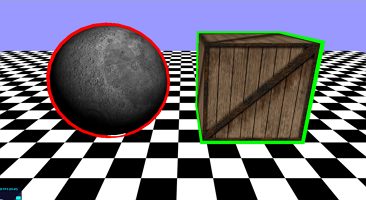
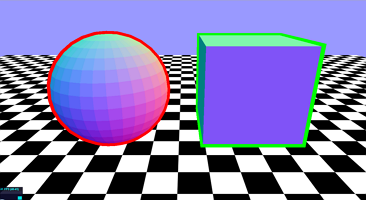
Reorganized index page.

diff --git a/Three.js/index.html b/Three.js/index.html
@@ -12,6 +12,7 @@ The goal of this collection is to provide a set of basic and instructive example
 <hr>
 Hosted at <a class="toc" href="https://github.com/stemkoski/stemkoski.github.com">GitHub</a>. Total examples: 76. Last updated: 29 June 2013. Compatible with Three.js version 56.
 <hr>
+<hr color="black"> <center><b><u>Basic Examples</u></b></center>
 &bull; <a class="toc" href="#hello-world">Hello World</a>
 &bull; <a class="toc" href="#template">Template</a>
 &bull; <a class="toc" href="#infobox">Info Box</a>
@@ -25,27 +26,36 @@ Hosted at <a class="toc" href="https://github.com/stemkoski/stemkoski.github.com
 &bull; <a class="toc" href="#shapes">Shapes</a>
 &bull; <a class="toc" href="#extrusion">Extrusion</a>
 &bull; <a class="toc" href="#text3D">Text3D</a>
+
+<hr color="black"> <center><b><u>Texture Examples</u></b></center>
 &bull; <a class="toc" href="#textures">Textures</a>
-&bull; <a class="toc" href="#sprites">Sprites</a>
 &bull; <a class="toc" href="#texture-repeat">Texture - Repeat</a>
 &bull; <a class="toc" href="#texture-text3D">Texture - Text3D </a>
-&bull; <a class="toc" href="#subdivision-cube">Subdivision Modifier - Cube</a>
-&bull; <a class="toc" href="#skybox">SkyBox</a>
 &bull; <a class="toc" href="#translucence">Translucence</a>
 &bull; <a class="toc" href="#shadow">Shadow</a>
+&bull; <a class="toc" href="#subdivision-cube">Subdivision Modifier - Cube</a>
+&bull; <a class="toc" href="#skybox">SkyBox</a>
 &bull; <a class="toc" href="#reflection">Reflection</a>
 &bull; <a class="toc" href="#refraction">Refraction</a>
 &bull; <a class="toc" href="#bubble">Bubble</a>
 &bull; <a class="toc" href="#texture-from-canvas">Texture from Canvas</a>
-&bull; <a class="toc" href="#sprite-text-labels">Sprite Text Labels</a>
 &bull; <a class="toc" href="#texture-animation">Texture Animation</a>
+
+<hr color="black"> <center><b><u>Sprite Examples</u></b></center>
+&bull; <a class="toc" href="#sprites">Sprites</a>
+&bull; <a class="toc" href="#sprite-text-labels">Sprite Text Labels</a>
+&bull; <a class="toc" href="#labeled-geometry">Labeled Geometry</a>
+
+<hr color="black"> <center><b><u>Camera/Renderer Examples</u></b></center>
 &bull; <a class="toc" href="#mesh-movement">Mesh Movement</a>
 &bull; <a class="toc" href="#chase-camera">Chase Camera</a>
 &bull; <a class="toc" href="#multiple-cameras">Multiple Cameras</a>
 &bull; <a class="toc" href="#camera-texture">Camera to Texture</a>
 &bull; <a class="toc" href="#viewports-dual">Viewports - Dual</a>
 &bull; <a class="toc" href="#viewports-quad">Viewports - Quad</a>
-<hr color="black"> SHADERS:
+&bull; <a class="toc" href="#css3d">Embedded HTML</a>
+
+<hr color="black"> <center><b><u>Shader Examples</u></b></center>
 &bull; <a class="toc" href="#shader-simple">Shader - Simple</a>
 &bull; <a class="toc" href="#shader-explorer">Shader - Explorer</a>
 &bull; <a class="toc" href="#selective-glow">Selective Glow Effect using Shaders</a>
@@ -54,7 +64,8 @@ Hosted at <a class="toc" href="https://github.com/stemkoski/stemkoski.github.com
 &bull; <a class="toc" href="#shader-animate">Shader - Animated Materials</a>
 &bull; <a class="toc" href="#shader-fireball">Shader - Animated Fireball</a>
 &bull; <a class="toc" href="#atmosphere">Atmosphere Effect using Shaders</a>
-<hr color="black"> PARTICLE SYSTEMS:
+
+<hr color="black"> <center><b><u>Particle System Examples</u></b></center>
 &bull; <a class="toc" href="#particles">Particles</a>
 &bull; <a class="toc" href="#particlesystem-static">Particle System - Static</a>
 &bull; <a class="toc" href="#particlesystem-shader">Particle System - Shader</a>
@@ -62,34 +73,45 @@ Hosted at <a class="toc" href="https://github.com/stemkoski/stemkoski.github.com
 &bull; <a class="toc" href="#particlesystem-dynamic">Particle System - Dynamic</a>
 &bull; <a class="toc" href="#particlesystem-pathmovement">Particle System - Path Movement</a>
 &bull; <a class="toc" href="#particle-engine">Particle Engine</a>
-<hr color="black"> VIDEO AND WEBCAM:
+
+<hr color="black"> <center><b><u>Video/Webcam Examples</u></b></center>
 &bull; <a class="toc" href="#video-texture">Video to Texture</a>
 &bull; <a class="toc" href="#webcam-test">Webcam Test</a>
 &bull; <a class="toc" href="#webcam-texture">Webcam to Texture</a>
 &bull; <a class="toc" href="#motion-detection">Motion Detection</a>
 &bull; <a class="toc" href="#motion-detection-texture">Motion Detection and Scene</a>
 &bull; <a class="toc" href="#many-cameras">Many Cameras</a>
-&bull; <a class="toc" href="#css3d">Embedded HTML</a>
-<hr color="black"> GAMEPAD:
-&bull; <a class="toc" href="#gamepad-test">Gamepad Test</a>
-&bull; <a class="toc" href="#mesh-movement-gamepad">Mesh Movement - Gamepad</a>
 
+<hr color="black"> <center><b><u>GUI Examples</u></b></center>
 &bull; <a class="toc" href="#gui">GUI</a>
 &bull; <a class="toc" href="#gui-controller">GUI Controller</a>
+
+<hr color="black"> <center><b><u>Mouse Examples</u></b></center>
 &bull; <a class="toc" href="#mouse-sprite">Mouse Sprite</a>
 &bull; <a class="toc" href="#mouse-hovering">Mouse Hovering</a>
 &bull; <a class="toc" href="#mouse-tooltip">Mouse Tooltip</a>
-<hr color="black"> MODELS:
+
+<hr color="black"> <center><b><u>Gamepad Examples</u></b></center>
+&bull; <a class="toc" href="#gamepad-test">Gamepad Test</a>
+&bull; <a class="toc" href="#mesh-movement-gamepad">Mesh Movement - Gamepad</a>
+
+<hr color="black"> <center><b><u>Model Examples</u></b></center>
 &bull; <a class="toc" href="#model">Model</a>
 &bull; <a class="toc" href="#model-animation">Animated Model</a>
 &bull; <a class="toc" href="#model-animation-control">Animated Model with Controls</a>
+
+<hr color="black"> <center><b><u>Collision Detection Examples</u></b></center>
 &bull; <a class="toc" href="#collision-detection">Collision Detection</a>
-<hr color="black"> MARCHING CUBES:
+
+<hr color="black"> <center><b><u>Marching Cubes Examples</u></b></center>
 &bull; <a class="toc" href="#marching-cubes">Marching Cubes Algorithm</a>
 &bull; <a class="toc" href="#metaballs">Metaballs</a>
 &bull; <a class="toc" href="#metabubbles">Metabubbles</a>
+
+<hr color="black"> <center><b><u>Mathematics Examples</u></b></center>
 &bull; <a class="toc" href="#csg">Constructive Solid Geometry</a>
-<hr color="black"> MATHEMATICS:
+&bull; <a class="toc" href="#sphere-project">Sphere Project</a>
+&bull; <a class="toc" href="#topology-data">Topology Data</a>
 &bull; <a class="toc" href="#graphulus-function">Function Grapher</a>
 &bull; <a class="toc" href="#graphulus-surface">Parametric Surface Grapher</a>
 &bull; <a class="toc" href="#graphulus-curve">Parametric Curve Grapher</a>
@@ -211,14 +233,6 @@ make a 2D shape, and create an extrusion (a 3D shape whose cross-sections are th
 <p class ="superText"> Demonstrates surfaces with textures (image-based materials), including shading and coloring effects. </p>
 </div>
 
-<div class="fancy">
-<a name="sprites"></a>
-<a href="Sprites.html" target="_blank">
-<img src="html-images/Sprites.png" class="superImage" />
-<br/>Sprites</a>
-<p class ="superText"> Sprites are images (not attached to geometries/surfaces) displayed in a scene, always orthogonal to the camera.
-They can either appear in the 3D scene (useful as part of a particle effect) or rendered using screen coordinates (useful as part of a graphical user interface (GUI) or a heads-up display (HUD)). </p>
-</div>
 
 <div class="fancy">
 <a name="texture-repeat"></a>
@@ -237,22 +251,6 @@ They can either appear in the 3D scene (useful as part of a particle effect) or 
 </div>
 
 <div class="fancy">
-<a name="subdivision-cube"></a>
-<a href="Subdivision-Cube.html" target="_blank">
-<img src="html-images/Subdivision-Cube.png" class="superImage" />
-<br/>Subdivision Modifier - Cube</a>
-<p class ="superText"> Demostrates a function that interpolates additional points to a geometry, creating a "smoothing" effect. This example applies the modifier to a variety of cube geometries, resulting in spherical and beveled cubes. </p>
-</div>
-
-<div class="fancy">
-<a name="skybox"></a>
-<a href="Skybox.html" target="_blank">
-<img src="html-images/Skybox.png" class="superImage" />
-<br/>SkyBox</a>
-<p class ="superText"> Using textures to create a "SkyBox": backgrounds images projected onto a cube surrounding the rendering region, which creates the illusion of distant 3D surroundings. </p>
-</div>
-
-<div class="fancy">
 <a name="translucence"></a>
 <a href="Translucence.html" target="_blank">
 <img src="html-images/Translucence.png" class="superImage" />
@@ -266,6 +264,22 @@ They can either appear in the 3D scene (useful as part of a particle effect) or 
 <img src="html-images/Shadow.png" class="superImage" />
 <br/>Shadow</a>
 <p class ="superText"> Using spotlights to create shadow effects in a scene. </p>
+</div>
+
+<div class="fancy">
+<a name="subdivision-cube"></a>
+<a href="Subdivision-Cube.html" target="_blank">
+<img src="html-images/Subdivision-Cube.png" class="superImage" />
+<br/>Subdivision Modifier - Cube</a>
+<p class ="superText"> Demostrates a function that interpolates additional points to a geometry, creating a "smoothing" effect. This example applies the modifier to a variety of cube geometries, resulting in spherical and beveled cubes. </p>
+</div>
+
+<div class="fancy">
+<a name="skybox"></a>
+<a href="Skybox.html" target="_blank">
+<img src="html-images/Skybox.png" class="superImage" />
+<br/>SkyBox</a>
+<p class ="superText"> Using textures to create a "SkyBox": backgrounds images projected onto a cube surrounding the rendering region, which creates the illusion of distant 3D surroundings. </p>
 </div>
 
 <div class="fancy">
@@ -292,13 +306,29 @@ They can either appear in the 3D scene (useful as part of a particle effect) or 
 <p class ="superText"> Creating a bubble-like material (incorporates reflection, refraction, and chromatic abberation) using a Fresnel shader. </p>
 </div>
 
-
 <div class="fancy">
 <a name="texture-from-canvas"></a>
 <a href="Texture-From-Canvas.html" target="_blank">
 <img src="html-images/Texture-From-Canvas.png" class="superImage" />
 <br/>Texture from Canvas</a>
 <p class ="superText"> Create a canvas element via JavaScript, draw text or images on it, and then use it as a texture for a mesh. </p>
+</div>
+
+<div class="fancy">
+<a name="texture-animation"></a>
+<a href="Texture-Animation.html" target="_blank">
+<img src="html-images/Texture-Animation.png" class="superImage" />
+<br/>Texture Animation</a>
+<p class ="superText"> Animate a spritesheet image texture on a surface. </p>
+</div>
+
+<div class="fancy">
+<a name="sprites"></a>
+<a href="Sprites.html" target="_blank">
+<img src="html-images/Sprites.png" class="superImage" />
+<br/>Sprites</a>
+<p class ="superText"> Sprites are images (not attached to geometries/surfaces) displayed in a scene, always orthogonal to the camera.
+They can either appear in the 3D scene (useful as part of a particle effect) or rendered using screen coordinates (useful as part of a graphical user interface (GUI) or a heads-up display (HUD)). </p>
 </div>
 
 <div class="fancy">
@@ -315,14 +345,6 @@ They can either appear in the 3D scene (useful as part of a particle effect) or 
 <img src="html-images/Labeled-Geometry.png" class="superImage" />
 <br/>Labeled Geometry</a>
 <p class ="superText"> Application of the Sprite Text Labels demo to label all vertices and edges of a geometry with their index number.</p>
-</div>
-
-<div class="fancy">
-<a name="texture-animation"></a>
-<a href="Texture-Animation.html" target="_blank">
-<img src="html-images/Texture-Animation.png" class="superImage" />
-<br/>Texture Animation</a>
-<p class ="superText"> Animate a spritesheet image texture on a surface. </p>
 </div>
 
 <div class="fancy">
@@ -378,6 +400,16 @@ They can either appear in the 3D scene (useful as part of a particle effect) or 
 <p class ="superText"> Simultaneously render four different camera views onto the same canvas element: one perspective camera and three
 orthographic cameras along the axis directions (similar to many 3D modeling software configurations).
 (Same controls as in "Mesh Movement" example.)
+</p>
+</div>
+
+<div class="fancy">
+<a name="css3d"></a>
+<a href="CSS3D.html" target="_blank">
+<img src="html-images/CSS3D.png" class="superImage" />
+<br/>Embedded HTML</a>
+<p class ="superText"> Displays an interactive webpage within a Three.js scene. Based on the work of Jerome Etienne:
+http://learningthreejs.com/blog/2013/04/30/closing-the-gap-between-html-and-webgl/
 </p>
 </div>
 
@@ -578,36 +610,6 @@ Detects motion occuring over graphics regions, and changes texture on spinning c
 </p>
 </div>
 
-<hr color="black">
-
-<div class="fancy">
-<a name="css3d"></a>
-<a href="CSS3D.html" target="_blank">
-<img src="html-images/CSS3D.png" class="superImage" />
-<br/>Embedded HTML</a>
-<p class ="superText"> Displays an interactive webpage within a Three.js scene. Based on the work of Jerome Etienne:
-http://learningthreejs.com/blog/2013/04/30/closing-the-gap-between-html-and-webgl/
-</p>
-</div>
-
-<div class="fancy">
-<a name="gamepad-test"></a>
-<a href="Gamepad-Test.html" target="_blank">
-<img src="html-images/Gamepad-Test.png" class="superImage" />
-<br/>Gamepad Test</a>
-<p class ="superText"> Uses a Gamepad (e.g. XBox controller) to move a square image around a canvas. Requires Chrome browser and connected gamepad to run. Uses gamepad.js library (patched) from http://github.com/inequation/gamepad.js. Analog sticks and directional pad move square up/down/left/right. A/B/X/Y buttons change colors of square. Start/select buttons reset square to original position. [Note: You may need to press one of A/B/X/Y buttons for controller to be recognized by the web browser.]  
-(No Three.js code required; this example is a lead-in to the following example.)</p>
-</div>
-
-<div class="fancy">
-<a name="mesh-movement-gamepad"></a>
-<a href="Mesh-Movement-Gamepad.html" target="_blank">
-<img src="html-images/Mesh-Movement-Gamepad.png" class="superImage" />
-<br/>Mesh Movement - Gamepad</a>
-<p class ="superText"> Uses a Gamepad (e.g. XBox controller) to move a cube around a Three.js scene, similar to Mesh-Movement example above. Requires Chrome browser and connected gamepad to run. Left analog stick moves cube forward/backward and turns left/right.  Directional pad moves cube forward/backward/left/right.  Right analog stick only turns cube left/right.  Right shoulder buttons double speed of movement/turns. Start/select buttons reset cube to original position and rotation.
-</p>
-</div>
-
 <div class="fancy">
 <a name="gui"></a>
 <a href="GUI.html" target="_blank">
@@ -646,6 +648,24 @@ http://learningthreejs.com/blog/2013/04/30/closing-the-gap-between-html-and-webg
 <img src="html-images/Mouse-Tooltip.png" class="superImage" />
 <br/>Mouse Tooltip</a>
 <p class ="superText"> Create a tooltip-style effect to display mesh names when mouse hovers. (Uses ideas from examples: Mouse Sprite, Mouse Hovering, and Texture from Canvas.) </p>
+</div>
+
+<div class="fancy">
+<a name="gamepad-test"></a>
+<a href="Gamepad-Test.html" target="_blank">
+<img src="html-images/Gamepad-Test.png" class="superImage" />
+<br/>Gamepad Test</a>
+<p class ="superText"> Uses a Gamepad (e.g. XBox controller) to move a square image around a canvas. Requires Chrome browser and connected gamepad to run. Uses gamepad.js library (patched) from http://github.com/inequation/gamepad.js. Analog sticks and directional pad move square up/down/left/right. A/B/X/Y buttons change colors of square. Start/select buttons reset square to original position. [Note: You may need to press one of A/B/X/Y buttons for controller to be recognized by the web browser.]  
+(No Three.js code required; this example is a lead-in to the following example.)</p>
+</div>
+
+<div class="fancy">
+<a name="mesh-movement-gamepad"></a>
+<a href="Mesh-Movement-Gamepad.html" target="_blank">
+<img src="html-images/Mesh-Movement-Gamepad.png" class="superImage" />
+<br/>Mesh Movement - Gamepad</a>
+<p class ="superText"> Uses a Gamepad (e.g. XBox controller) to move a cube around a Three.js scene, similar to Mesh-Movement example above. Requires Chrome browser and connected gamepad to run. Left analog stick moves cube forward/backward and turns left/right.  Directional pad moves cube forward/backward/left/right.  Right analog stick only turns cube left/right.  Right shoulder buttons double speed of movement/turns. Start/select buttons reset cube to original position and rotation.
+</p>
 </div>
 
 <div class="fancy">

diff --git a/Three.js/Outline.html b/Three.js/Outline.html
@@ -102,29 +102,27 @@ function init()
 	// CUSTOM //
 	////////////
 
+	var material = new THREE.MeshNormalMaterial();
+
 	var sphereGeometry = new THREE.SphereGeometry(50, 32, 16);
-	var moonTexture = THREE.ImageUtils.loadTexture( 'images/moon.jpg' );
-	var moonMaterial = new THREE.MeshLambertMaterial( { map: moonTexture } );
-	var moon = new THREE.Mesh( sphereGeometry, moonMaterial );
-	moon.position.set(-60, 50, 0);
-	scene.add( moon );		
+	var sphere = new THREE.Mesh( sphereGeometry, material );
+	sphere.position.set(-60, 55, 0);
+	scene.add( sphere );		
 
 	var outlineMaterial1 = new THREE.MeshBasicMaterial( { color: 0xff0000, side: THREE.BackSide } );
 	var outlineMesh1 = new THREE.Mesh( sphereGeometry, outlineMaterial1 );
-	outlineMesh1.position = moon.position;
+	outlineMesh1.position = sphere.position;
 	outlineMesh1.scale.multiplyScalar(1.05);
 	scene.add( outlineMesh1 );
 	
 	var cubeGeometry = new THREE.CubeGeometry( 80, 80, 80 );
-	var crateTexture = new THREE.ImageUtils.loadTexture( 'images/crate.gif' );
-	var crateMaterial = new THREE.MeshBasicMaterial( { map: crateTexture } );
-	var crate = new THREE.Mesh( cubeGeometry, crateMaterial );
-	crate.position.set(60, 50, 0);
-	scene.add( crate );		
+	var cube = new THREE.Mesh( cubeGeometry, material );
+	cube.position.set(60, 60, 0);
+	scene.add( cube );		
 	
 	var outlineMaterial2 = new THREE.MeshBasicMaterial( { color: 0x00ff00, side: THREE.BackSide } );
 	var outlineMesh2 = new THREE.Mesh( cubeGeometry, outlineMaterial2 );
-	outlineMesh2.position = crate.position;
+	outlineMesh2.position = cube.position;
 	outlineMesh2.scale.multiplyScalar(1.05);
 	scene.add( outlineMesh2 );
 	
